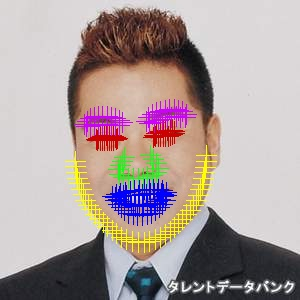
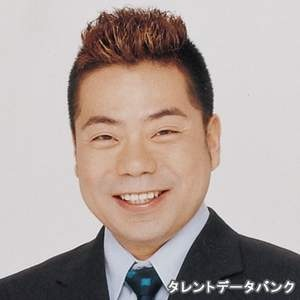
cut

Changed region(s): [[0.21, 0.33, 0.72, 0.84]]

diff --git a/find.py b/find.py
@@ -4,6 +4,7 @@ import numpy as np
 import os
 import sys
 import glob
+import random
 
 # image_paths = []
 # Cascade files directory path
@@ -202,6 +203,16 @@ def make_face_part_candidate_lst(face_part_candidate_dic, index_part_name,  land
                     ])
     return tmp_arr[1:]
 
+def cut(points, image_path):
+    xMin = min(points[0])
+    xMax = max(points[0])
+    yMin = min(points[1])
+    yMax = max(points[1])
+
+    img = cv2.imread(image_path)
+    return img[yMax:yMin, xMin:xMax]
+
+
 
 
 def main():
@@ -291,7 +302,9 @@ def main():
     # 白のキャンバスを作成し、顔候補を描画
     width = 500
     height = 500
-    img = np.ones((height, width, 3), np.uint8)*255
+    img = np.ones((height, width, 3), np.uint8) * 255
+
+    print(face_part_candidate_dic)
 
     drow(img, face_part_select_dic)
     cv2.imwrite("test.jpg", img)
@@ -299,158 +312,3 @@ def main():
 
 if __name__ == '__main__':
     main()
-
-def normalization(face_landmarks):
-    return_list = []
-    for facemark in face_landmarks:
-        # nose
-        nose = list(range(130, 147 + 1))
-        nose.remove(139)
-
-        # right eyebrows
-        right_eyebrow = list(range(62, 83 + 1))
-        right_eyebrow.remove(68)
-        right_eyebrow.remove(79)
-
-        # left eyebrows
-        left_eyebrow = list(range(84, 105 + 1))
-        left_eyebrow.remove(90)
-        left_eyebrow.remove(101)
-
-        # right eye
-        right_eye = list(range(18, 39 + 1))
-        right_eye.remove(24)
-        right_eye.remove(35)
-
-        # left_eye
-        left_eye = list(range(40, 61 + 1))
-        left_eye.remove(46)
-        left_eye.remove(57)
-
-        # outside lips
-        outside_lips = list(range(148, 178 + 1))
-        outside_lips.remove(150)
-        outside_lips.remove(161)
-        outside_lips.remove(172)
-
-        # inside lips
-        inside_lips = list(range(3, 17 + 1))
-        inside_lips.remove(13)
-        add_list_lips = list(range(179, 193 + 1))
-        add_list_lips.remove(183)
-        inside_lips += add_list_lips
-
-        # chin
-        chin = [0, 1, 106, 117, 128, 139, 150, 161, 172,
-                183, 2, 13, 24, 35, 46, 57, 68, 79, 90, 101]
-        add_list = list(range(107, 129 + 1))
-        add_list.remove(117)
-        add_list.remove(128)
-        chin += add_list
-
-        # nose
-        for nose_i, fm_i in enumerate(nose):
-            # nose[nose_i] = facemark[fm_i]
-            nose[nose_i] = np.hstack([facemark[fm_i], INDEX_NOSE])
-        # right_eyebrow
-        for reb_i, fm_i in enumerate(right_eyebrow):
-            # right_eyebrow[reb_i] = facemark[fm_i]
-            right_eyebrow[reb_i] = np.hstack([facemark[fm_i], INDEX_RIGHT_EYEBROWS])
-        # left_eyebrow
-        for leb_i, fm_i in enumerate(left_eyebrow):
-            # left_eyebrow[leb_i] = facemark[fm_i]
-            left_eyebrow[leb_i] = np.hstack([facemark[fm_i], INDEX_LEFT_EYEBROWS])
-        # right_eye
-        for re_i, fm_i in enumerate(right_eye):
-            # right_eye[re_i] = facemark[fm_i]
-            right_eye[re_i] = np.hstack([facemark[fm_i], INDEX_RIGHT_EYE])
-        # left_eye
-        for le_i, fm_i in enumerate(left_eye):
-            # left_eye[le_i] = facemark[fm_i]
-            left_eye[le_i] = np.hstack([facemark[fm_i], INDEX_LEFT_EYE])
-        # outside_lips
-        for ol_i, fm_i in enumerate(outside_lips):
-            # outside_lips[ol_i] = facemark[fm_i]
-            outside_lips[ol_i] = np.hstack([facemark[fm_i], INDEX_OUTSIDE_LIPS])
-        # inside_lips
-        for il_i, fm_i in enumerate(inside_lips):
-            # inside_lips[il_i] = facemark[fm_i]
-            inside_lips[il_i] = np.hstack([facemark[fm_i], INDEX_INSIDE_LIPS])
-        # chin
-        for chin_i, fm_i in enumerate(chin):
-            # chin[chin_i] = facemark[fm_i]
-            chin[chin_i] = np.hstack([facemark[fm_i], INDEX_CHIN])
-
-        return_list.append(chin + nose + outside_lips + inside_lips +
-                           right_eye + left_eye + right_eyebrow + left_eyebrow)
-
-    return return_list
-
-def cut(partPoints, image_path):
-    # print(partPoints)
-    minX = min(partPoints[0])
-    maxX = max(partPoints[0])
-    minY = min(partPoints[1])
-    maxY = max(partPoints[1])
-
-    img = cv2.imread(image_path)
-    ret = img[maxY: minY , minX: maxX]
-    return ret
-
-def drow(imp, points):
-
-    if  points[2]==INDEX_NOSE:
-        cv2.drawMarker(img, (points[0], points[1]), (21, 255, 12)) # (B, G, R): 緑
-    elif points[2]==INDEX_RIGHT_EYEBROWS:
-        cv2.drawMarker(img, (points[0], points[1]), (255, 0, 204))  # (B, G, R): ピンク
-    elif points[2]==INDEX_LEFT_EYEBROWS:
-        cv2.drawMarker(img, (points[0], points[1]), (255, 0, 204)) # (B, G, R): ピンク
-    elif points[2]==INDEX_RIGHT_EYE:
-        cv2.drawMarker(img, (points[0], points[1]), (0, 0, 204)) # (B, G, R): 赤
-    elif points[2]==INDEX_LEFT_EYE:
-        cv2.drawMarker(img, (points[0], points[1]), (0, 0, 204)) # (B, G, R): 赤
-    elif points[2]==INDEX_OUTSIDE_LIPS:
-        cv2.drawMarker(img, (points[0], points[1]), (255, 0, 0)) # (B, G, R): 青
-    elif points[2]==INDEX_INSIDE_LIPS:
-        cv2.drawMarker(img, (points[0], points[1]), (255, 0, 0)) # (B, G, R): 青
-    elif points[2]==INDEX_CHIN:
-        cv2.drawMarker(img, (points[0], points[1]), (0, 255, 255)) # (B, G, R): 緑
-
-
-if __name__ == '__main__':
-
-    image_paths = sorted(glob.glob(os.path.join(INPUT_DIR, '*.jpg')))
-
-    # print(image_paths)
-
-    '''
-    [0~40]: chin
-    [41~57]: nose
-    [58~85]: outside of lips
-    [86-113]: inside of lips
-    [114-133]: right eye
-    [134-153]: left eye
-    [154-173]: right eyebrows
-    [174-193]: left eyebrows
-    '''
-    cutimage = cv2.imread(image_paths[0])
-
-    for image_path in image_paths:
-        img = cv2.imread(image_path)
-        # cv2.imshow(img)
-        gray = cv2.cvtColor(img, cv2.COLOR_BGR2GRAY)
-        landmarks = facemark(gray)
-        # print(landmarks)
-        landmarks = normalization(landmarks)
-        print(landmarks[0])
-        for landmark in landmarks:
-            # print(landmark[50])
-            # if landmark[50][2] <= 6:
-            #     cutimage = cut(landmark, image_path)
-            for points in landmark:
-                    drow(img, points)
-
-        root, ext = os.path.splitext(image_path)
-        cv2.imwrite(os.path.join(OUTPUT_DIR, root.split('/')[-1] + '_out' + ext), img)
-    # print(cutimage)
-    # cv2.imwrite('./output/cut.jpg',cutimage)
